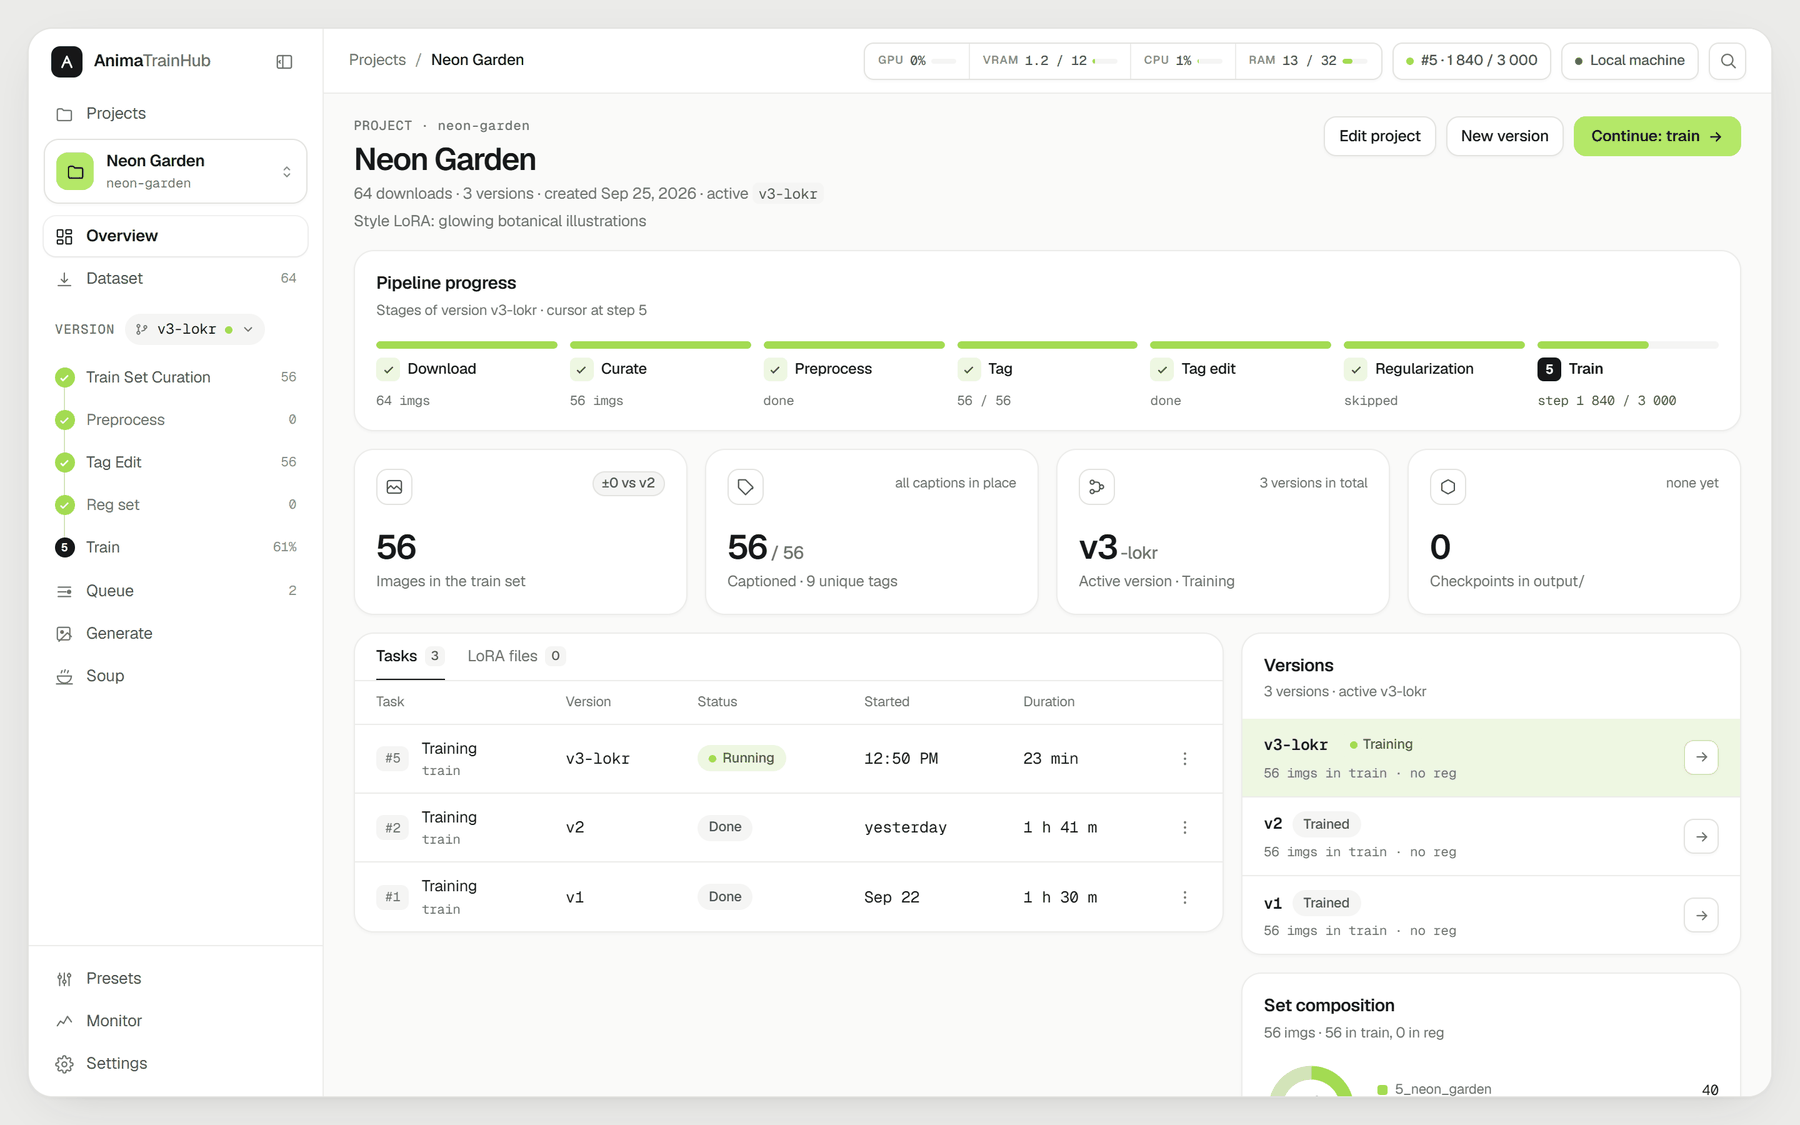
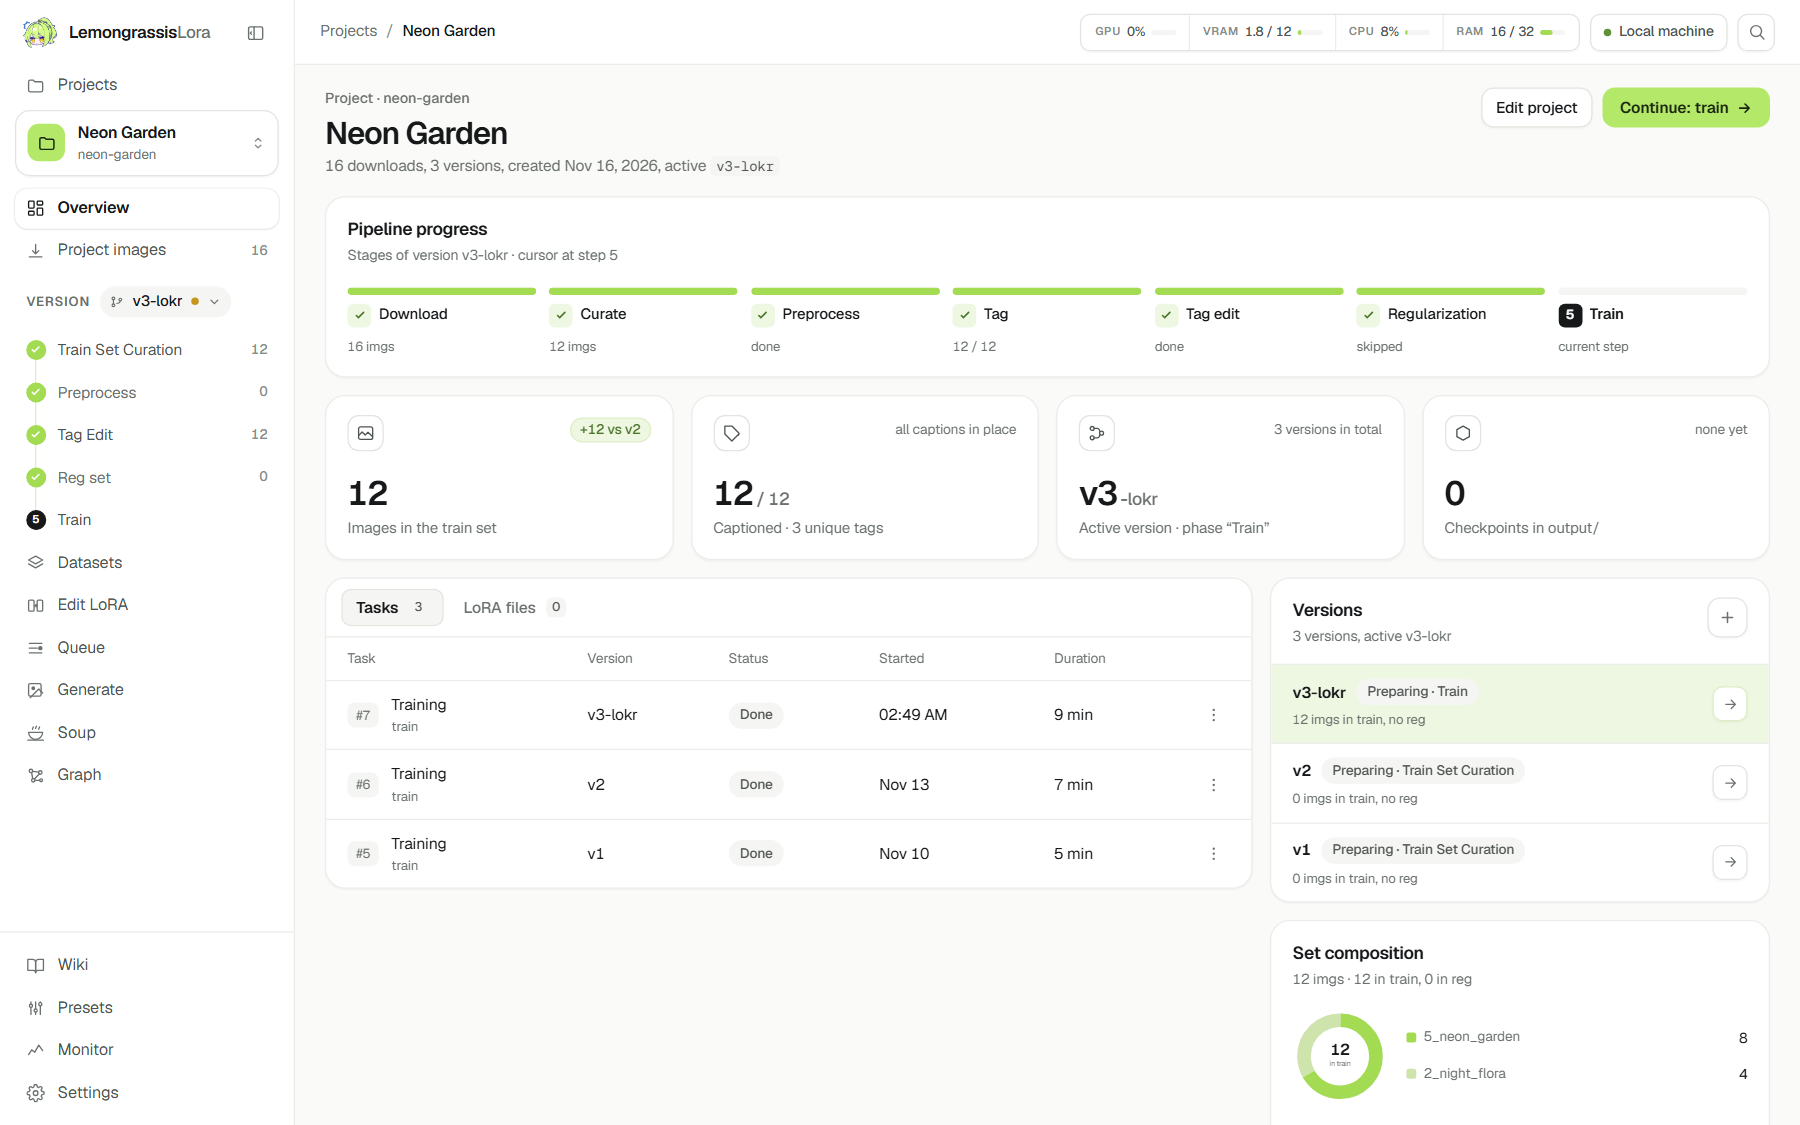
chore(release): 1.0.0
New README screenshots from a demo studio, mascot logo and the
LemongrassisLora name in the sidebar, v1.0.0 release post.

diff --git a/studio/web/src/components/Sidebar.tsx b/studio/web/src/components/Sidebar.tsx
@@ -82,7 +82,6 @@ const I = {
   expand:   svg(<><rect x="3" y="4" width="18" height="16" rx="2" /><path d="M10 4v16" /><path d="M5.1 10.4 6.7 12l-1.6 1.6" /></>, 15, 1.8),
   plus:     svg(<path d="M12 5v14M5 12h14" />, 13, 2),
   updown:   <svg width="13" height="13" viewBox="0 0 24 24" fill="none" stroke="#878e89" strokeWidth="2" strokeLinecap="round"><path d="m8 9 4-4 4 4M8 15l4 4 4-4" /></svg>,
-  brand:    <svg width="13" height="13" viewBox="0 0 24 24" fill="none" stroke="currentColor" strokeWidth="2.6" strokeLinecap="round" strokeLinejoin="round"><path d="M5 20 12 4l7 16" /><path d="M8.2 13h7.6" /></svg>,
 }
 
 // ── version status dot (ADR-0007 §11.3-B) ─────────────────────────────────
@@ -549,8 +548,8 @@ export default function Sidebar({
         <div className={`ds-brand ${collapsed ? 'justify-center !px-0' : ''}`}>
           {!collapsed && (
             <>
-              <span className="ds-brand-mark" aria-hidden>{I.brand}</span>
-              <span className="ds-brand-name">Anima<i>TrainHub</i></span>
+              <img className="ds-brand-logo" src="/icons/noal.png" alt="" aria-hidden />
+              <span className="ds-brand-name">Lemongrassis<i>Lora</i></span>
             </>
           )}
           <button
@@ -566,8 +565,8 @@ export default function Sidebar({
       )}
       {mobile && (
         <div className="ds-brand">
-          <span className="ds-brand-mark" aria-hidden>{I.brand}</span>
-          <span className="ds-brand-name">Anima<i>TrainHub</i></span>
+          <img className="ds-brand-logo" src="/icons/noal.png" alt="" aria-hidden />
+          <span className="ds-brand-name">Lemongrassis<i>Lora</i></span>
           <button
             type="button"
             onClick={onMobileClose}

diff --git a/studio/web/src/styles/ds.css b/studio/web/src/styles/ds.css
@@ -40,6 +40,7 @@
 .ds-side{display:flex;flex-direction:column;border-right:1px solid var(--line);min-height:0}
 .ds-brand{display:flex;align-items:center;gap:9px;height:52px;padding:0 18px;flex:none}
 .ds-brand-mark{width:25px;height:25px;border-radius:7px;background:var(--ink);display:grid;place-items:center;color:#fff;flex:none}
+.ds-brand-logo{width:28px;height:28px;object-fit:contain;flex:none;margin:-2px 0}
 .ds-brand-name{font-size:13.5px;font-weight:600;letter-spacing:-.02em}
 .ds-brand-name i{font-style:normal;color:var(--ink-3);font-weight:500}
 .ds-sidenav{flex:1;min-height:0;display:flex;flex-direction:column;gap:2px;padding:0 12px 14px}

diff --git a/studio/__init__.py b/studio/__init__.py
@@ -40,4 +40,4 @@ The single source of truth for the version number across the whole repo:
 Version scheme: MAJOR.MINOR.PATCH (semver, but during the 0.x phase a MINOR
 bump is treated as a breaking change).
 """
-__version__ = "0.20.2"
+__version__ = "1.0.0"

diff --git a/CHANGELOG.md b/CHANGELOG.md
@@ -5,6 +5,37 @@
 
 ---
 
+## v1.0.0 — 2026-11-16
+
+First release under the LemongrassisLora name: three model families, a richer training toolbox and a summary card inside every trained LoRA
+
+### Highlights
+
+- **New name: LemongrassisLora**
+  The studio, the launcher (`LemongrassisLora.exe`), the docs and the sidebar logo now carry the new name. Projects, settings and paths stay where they were.
+
+- **A LemongrassisLora card in every LoRA file**
+  Each saved `.safetensors` gets a short summary in its metadata — project, base model, network and LoKr factor, rank/alpha, batch size and timestep sampling. ComfyUI, SwarmUI, Forge and Civitai show it in their LoRA info panels. Loading is unchanged.
+
+- **Three model families**
+  Anima (including 2.9B), Krea 2 (Raw training with Turbo previews, ConvRot INT8 and fp8 bases) and MOSS Image Base (ConvRot INT8, text-encoder offloading, Muon and Riemann LoRA).
+
+### Training
+
+- SinkGD optimizer and ReREX learning-rate schedule.
+- Caption variations for families that cache text embeddings.
+- Per-image loss watch with per-image learning rate, and epoch-level adaptive LR.
+- Low-noise timestep quota and tone anchor against learning the dataset's overall tone.
+- MOSS training previews through a distilled Turbo LoRA; `dpmpp_sde` sampler.
+- Edit LoRA: before → after image pairs for instruction-style edit adapters.
+- Crash auto-restart, partial gradient checkpointing, resume from a mid-epoch step.
+
+### Docs
+
+- README restructured around supported models, quick start and features, with new screenshots.
+
+---
+
 ## v0.20.2 — 2026-07-19
 
 Fixes LoKr training with Krea 2 FP8 base models and long-tag overflow on the regularization page

diff --git a/docs/announcements/2026-11-16-v1.0.0.md b/docs/announcements/2026-11-16-v1.0.0.md
@@ -1,0 +1,33 @@
+---
+date: 2026-11-16
+tag: release
+title: v1.0.0 — LemongrassisLora
+pin: true
+version: "1.0.0"
+---
+First release under the LemongrassisLora name: three model families, a richer training toolbox and a summary card inside every trained LoRA
+
+### Highlights
+
+- **New name: LemongrassisLora**
+  The studio, the launcher (`LemongrassisLora.exe`), the docs and the sidebar logo now carry the new name. Projects, settings and paths stay where they were.
+
+- **A LemongrassisLora card in every LoRA file**
+  Each saved `.safetensors` gets a short summary in its metadata — project, base model, network and LoKr factor, rank/alpha, batch size and timestep sampling. ComfyUI, SwarmUI, Forge and Civitai show it in their LoRA info panels. Loading is unchanged.
+
+- **Three model families**
+  Anima (including 2.9B), Krea 2 (Raw training with Turbo previews, ConvRot INT8 and fp8 bases) and MOSS Image Base (ConvRot INT8, text-encoder offloading, Muon and Riemann LoRA).
+
+### Training
+
+- SinkGD optimizer and ReREX learning-rate schedule.
+- Caption variations for families that cache text embeddings.
+- Per-image loss watch with per-image learning rate, and epoch-level adaptive LR.
+- Low-noise timestep quota and tone anchor against learning the dataset's overall tone.
+- MOSS training previews through a distilled Turbo LoRA; `dpmpp_sde` sampler.
+- Edit LoRA: before → after image pairs for instruction-style edit adapters.
+- Crash auto-restart, partial gradient checkpointing, resume from a mid-epoch step.
+
+### Docs
+
+- README restructured around supported models, quick start and features, with new screenshots.

diff --git a/README.ru.md b/README.ru.md
@@ -6,7 +6,7 @@
 От сырых картинок до тестовых генераций в одном окне браузера, в том числе с телефона.
 
 [![English](https://img.shields.io/badge/lang-English-18181b?style=flat-square)](README.md)
-[![Version](https://img.shields.io/badge/version-0.20.2--fork-6366f1?style=flat-square)](CHANGELOG.md)
+[![Version](https://img.shields.io/badge/version-1.0.0-6366f1?style=flat-square)](CHANGELOG.md)
 [![License](https://img.shields.io/badge/license-GPL--3.0-52525b?style=flat-square)](LICENSE)
 [![GPU](https://img.shields.io/badge/NVIDIA-от%206%20ГБ-52525b?style=flat-square)](#требования)
 [![UI](https://img.shields.io/badge/UI-RU%20·%20EN-52525b?style=flat-square)](#)

diff --git a/README.md b/README.md
@@ -8,7 +8,7 @@
 From raw images to test renders in one browser window — on your PC, in Colab or from your phone.
 
 [![Русский](https://img.shields.io/badge/lang-Русский-18181b?style=flat-square)](README.ru.md)
-[![Version](https://img.shields.io/badge/version-0.20.2--fork-84cc16?style=flat-square)](CHANGELOG.md)
+[![Version](https://img.shields.io/badge/version-1.0.0-84cc16?style=flat-square)](CHANGELOG.md)
 [![License](https://img.shields.io/badge/license-GPL--3.0-52525b?style=flat-square)](LICENSE)
 [![Models](https://img.shields.io/badge/models-Anima%20·%20Krea%202%20·%20MOSS-52525b?style=flat-square)](#-supported-models)
 [![GPU](https://img.shields.io/badge/NVIDIA-6%20GB+-52525b?style=flat-square)](#-requirements)
